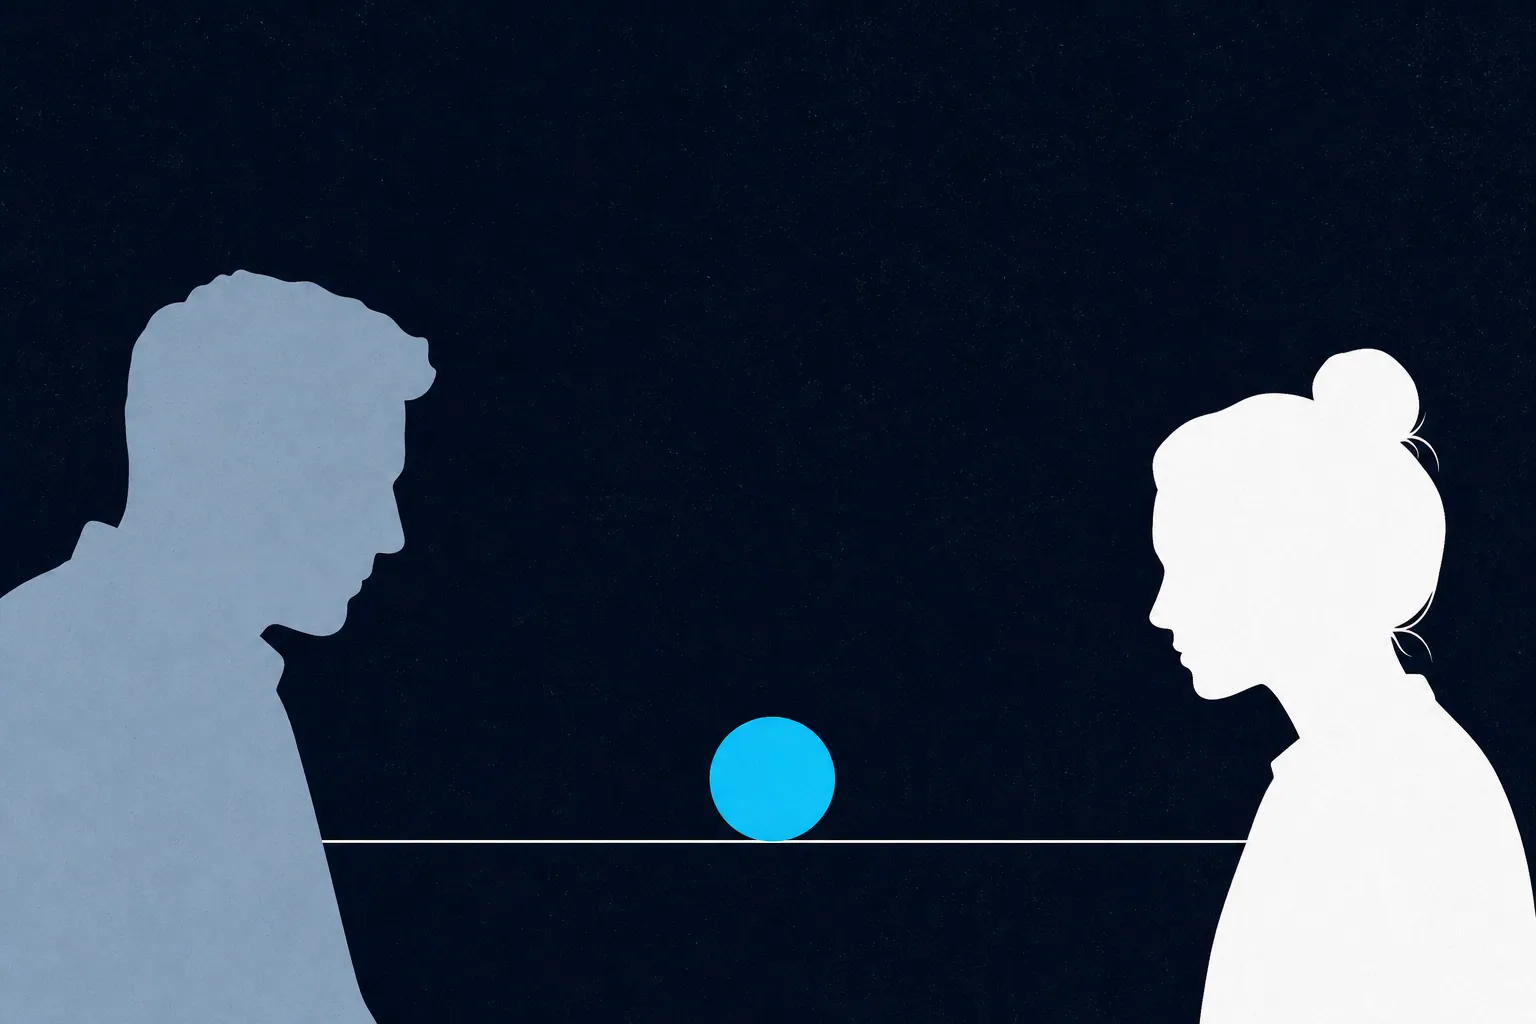
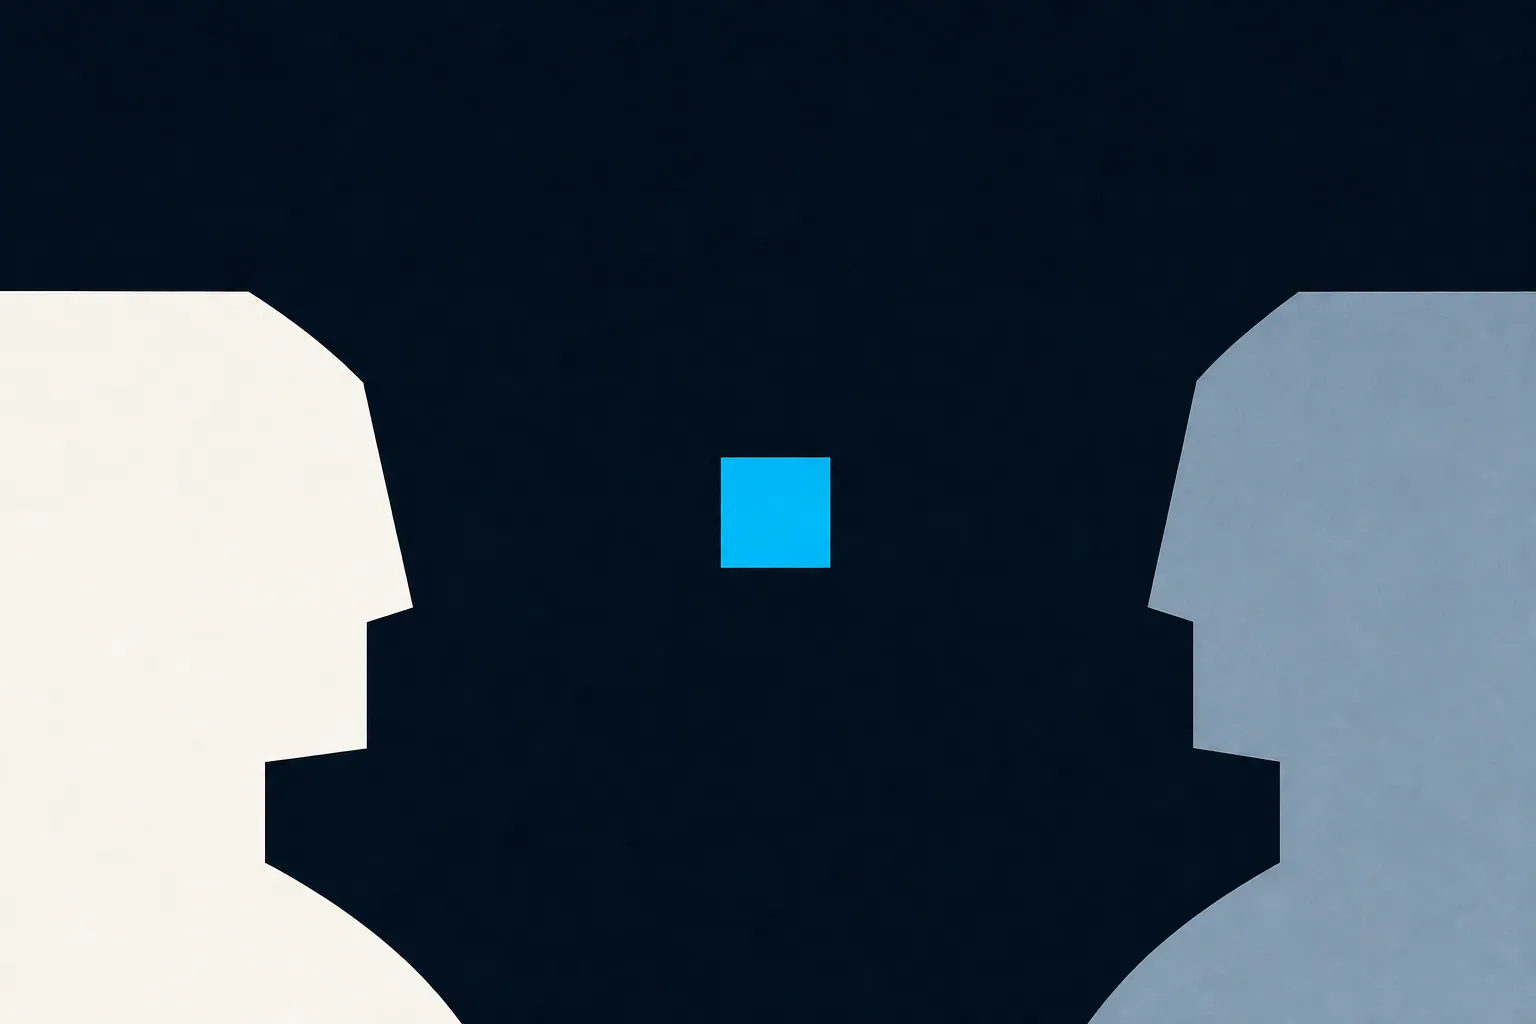
Course and LP headers now show their subject; everything else left alone
Four header images are redrawn in the original house style - flat colour
blocking on navy, cyan sparingly, generous space, cropped by an edge - with only
the subject changed so the picture says what the page sells: a feed post in a
phone for the Meta course, the paid placement above organic results for Google
Ads, a result climbing the rankings for SEO, and two profiles either side of one
cyan square for consultations. The old blanket ban on user-interface elements is
lifted, since a search field or a results list is usually the clearest way to
carry a topic.

Nothing else moves. The owner likes the current dark pages and the blog covers,
so the other nine motifs keep their files AND get their manifest prompts
reverted to the text that produced them - otherwise a later forced regeneration
would quietly redraw pages that were deliberately left as they are.

Alt text updated on all five pages that show the four changed images. The
throwaway style samples are deleted.

diff --git a/src/pages/pakalpojumi.html b/src/pages/pakalpojumi.html
@@ -53,14 +53,14 @@ permalink: "/pakalpojumi/"
         <a class="arrow-link" href="/ai-un-automatizacijas/">Uzzini vairāk</a>
       </div>
       <div class="cell cell--media">
-        <figure class="cell-media"><img src="/img/gen/konsultacijas-saruna.webp" alt="Abstrakta ilustrācija ar diviem siluetiem pie galda — mārketinga konsultācija" loading="lazy"></figure>
+        <figure class="cell-media"><img src="/img/gen/konsultacijas-saruna.webp" alt="Divi profili viens pretī otram ar vienu ciānkrāsas kvadrātu starp tiem" loading="lazy"></figure>
         <span class="cell-idx">04</span>
         <h3>Mārketinga konsultācijas</h3>
         <p>Skaidrība un rezultāti: konkrēti ieteikumi, prioritātes un plāns Tava biznesa izaugsmei.</p>
         <a class="arrow-link" href="/marketinga-konsultacijas/">Uzzini vairāk</a>
       </div>
       <div class="cell cell--media">
-        <figure class="cell-media"><img src="/img/gen/seo-mekletaja-motivs.webp" alt="Meklētāja motīvs — aplis ar līniju un rezultātu joslām" loading="lazy" style="--focus: center"></figure>
+        <figure class="cell-media"><img src="/img/gen/seo-mekletaja-motivs.webp" alt="Meklēšanas rezultātu saraksts, kurā viens rezultāts pakāpies uz augšu" loading="lazy" style="--focus: center"></figure>
         <span class="cell-idx">05</span>
         <h3>SEO pakalpojumi</h3>
         <p>Audits, tehniskais SEO, optimizācija un stratēģija, kas palīdz iegūt vairāk klientu organiski.</p>

diff --git a/src/pages/seo-kursi.html b/src/pages/seo-kursi.html
@@ -29,7 +29,7 @@ crumb: { label: "Kursi", url: "/digitala-marketinga-kursi/" }
   <div class="container">
     <div class="course-layout">
       <div class="course-body">
-        <figure class="media media--wide"><img src="/img/gen/seo-mekletaja-motivs.webp" alt="Abstrakts meklēšanas motīvs — aplis un rezultātu saraksta joslas" loading="lazy"></figure>
+        <figure class="media media--wide"><img src="/img/gen/seo-mekletaja-motivs.webp" alt="Meklēšanas rezultātu saraksts, kurā viens rezultāts pakāpies uz augšu" loading="lazy"></figure>
         <p class="lead">SEO kursi Tev iemācīs SEO pamatus un efektīvas optimizācijas stratēģijas, lai palielinātu mājaslapas redzamību un piesaistītu vairāk organisko apmeklētāju.</p>
         <p>Iegūsi padziļinātu izpratni par atslēgvārdu izpēti, satura optimizāciju un tehniskajiem SEO aspektiem, kas palīdzēs uzlabot Tavas mājaslapas pozīcijas Google meklētājā.</p>
         <p>Kurss ietver arī praktiskus vingrinājumus un reālus piemērus, lai Tu uzreiz varētu pielietot iegūtās zināšanas un veidot konkurētspējīgu SEO stratēģiju savam biznesam.</p>

diff --git a/src/pages/marketinga-konsultacijas.html b/src/pages/marketinga-konsultacijas.html
@@ -196,7 +196,7 @@ crumb: { label: "Pakalpojumi", url: "/pakalpojumi/" }
     </div>
     <div class="row cols-2 top">
       <div class="col">
-        <figure class="media media--wide"><img src="/img/gen/konsultacijas-saruna.webp" alt="Abstrakts konsultācijas motīvs — divas figūras sarunā pie kopīga galda" loading="lazy"></figure>
+        <figure class="media media--wide"><img src="/img/gen/konsultacijas-saruna.webp" alt="Divi profili viens pretī otram ar vienu ciānkrāsas kvadrātu starp tiem" loading="lazy"></figure>
       </div>
       <div class="col">
         <p>Mēs nepārdodam “vienu pareizo risinājumu” un nesākam ar reklāmām tikai tāpēc, ka tās ir populāras. Ja Tavā gadījumā aizķeršanās ir piedāvājumā vai cenu struktūrā, to arī pateiksim — arī tad, ja tā nav atbilde, ko gribējās dzirdēt.</p>

diff --git a/src/pages/meta-reklamas-kurss.html b/src/pages/meta-reklamas-kurss.html
@@ -37,7 +37,7 @@ image: "/img/2024/04/L15abIxRLoo57p4DsV1Q_Copy-of-Vai-pedeja-laika-esi-saskaries
     </div>
     <div class="row cols-2 top">
       <div class="col">
-        <figure class="media media--wide"><img src="/img/gen/meta-reklamas-motivs.webp" alt="Abstrakts sociālo tīklu plūsmas motīvs no pārklājošiem kvadrātveida laukiem" loading="lazy"></figure>
+        <figure class="media media--wide"><img src="/img/gen/meta-reklamas-motivs.webp" alt="Sociālā tīkla ieraksts telefona rāmī — attēls, teksta rindas un ciānkrāsas reakcijas kvadrāts" loading="lazy"></figure>
       </div>
       <div class="col">
         <h3>Nodarbības laikā uzzināsi, kā</h3>

diff --git a/src/pages/google-ads-kurss.html b/src/pages/google-ads-kurss.html
@@ -37,7 +37,7 @@ image: "/img/gen/google-ads-motivs.webp"
     </div>
     <div class="row cols-2 top">
       <div class="col">
-        <figure class="media media--wide"><img src="/img/gen/google-ads-motivs.webp" alt="Abstrakts izsoles motīvs — dažāda augstuma kolonnas virs meklēšanas joslas" loading="lazy"></figure>
+        <figure class="media media--wide"><img src="/img/gen/google-ads-motivs.webp" alt="Meklēšanas rezultātu saraksts, kurā apmaksātā reklāma atrodas virs organiskajiem rezultātiem" loading="lazy"></figure>
       </div>
       <div class="col">
         <h3>Nodarbības laikā uzzināsi, kā</h3>

diff --git a/CLAUDE.md b/CLAUDE.md
@@ -896,6 +896,50 @@ the application form until `bookUrl` is set in `courseSessions.json`. Each
 needs a €150 payment link in the SIA "Stonks" account with its after-payment
 redirect pointing at the Cal.com event above — same recipe as the Meta link.
 
+## Two artwork languages, settled 5 Sep 2026
+
+After a long exploration the owner settled on two — and only two — treatments.
+Everything else was reverted, so do not re-litigate this.
+
+**1. Blog infographics: CUT-PAPER COLLAGE on warm off-white.** Every element is
+a flat piece of cut paper — crisp edges, slight offsets where pieces overlap,
+subtle paper grain — in navy, cyan, pale grey. Big navy numerals, one emblem per
+item, and the emblem must plainly read as its own subject (a form panel, an
+envelope, a bar chart). **Nothing in the margins**: no decorative shapes at the
+left or right edges, no confetti, no background pattern. `PAPER_SUFFIX` encodes
+this; each slot prompt describes its own emblems. All six in-article
+infographics are drawn this way.
+
+**2. Course and LP header images: the ORIGINAL house style, subject made
+explicit.** Flat colour blocking on `#020d1c`, cyan used sparingly, generous
+negative space, asymmetric, cropped by an edge — unchanged. What changed is that
+the picture must now SHOW ITS SUBJECT: a viewer should be able to tell what the
+page sells from the artwork alone. The old blanket ban on user-interface
+elements is lifted, because a phone frame, a search field or a results list is
+usually the clearest way to say what a page is about.
+
+**Only four images use treatment 2** — `meta-reklamas-motivs` (a feed post in a
+phone), `google-ads-motivs` (paid placement above organic results),
+`seo-mekletaja-motivs` (a result climbing the rankings) and
+`konsultacijas-saruna` (two profiles either side of one cyan square). Owner,
+5 Sep 2026: *"dont change anything in the current dark background pages and blog
+thumbnails, i like them as they are. Apply the new UI-related style only to
+course and LP headers where appropriate."* Every other motif and all 31 blog
+covers keep the artwork they already have, and their manifest prompts were
+reverted to the text that produced those files — so `npm run images --force`
+reproduces what is on disk instead of silently redrawing pages that were
+deliberately left alone.
+
+**What was tried and rejected**, so nobody repeats it: a precision-schematic
+hairline redraw of every motif (*"too much of everything in there"*), three
+rounds of thin-line white infographics (*"I honestly hate the white infographic
+drawings"*), and six alternative design languages — Swiss brutalist, editorial
+serif, isometric, riso halftone, data-viz, neon, clay, glassmorphism, Bauhaus,
+blueprint. Two lessons worth keeping: banning icons outright makes the model
+draw the same meaningless scribble in every column, and three small equal
+drawings in a row on a field of white cannot be made to look good at any level
+of polish — something has to be oversized or cropped.
+
 ## Images must carry content (4 Sep 2026)
 
 Owner: *"I thought we agreed not to use the full-size sections with just one
